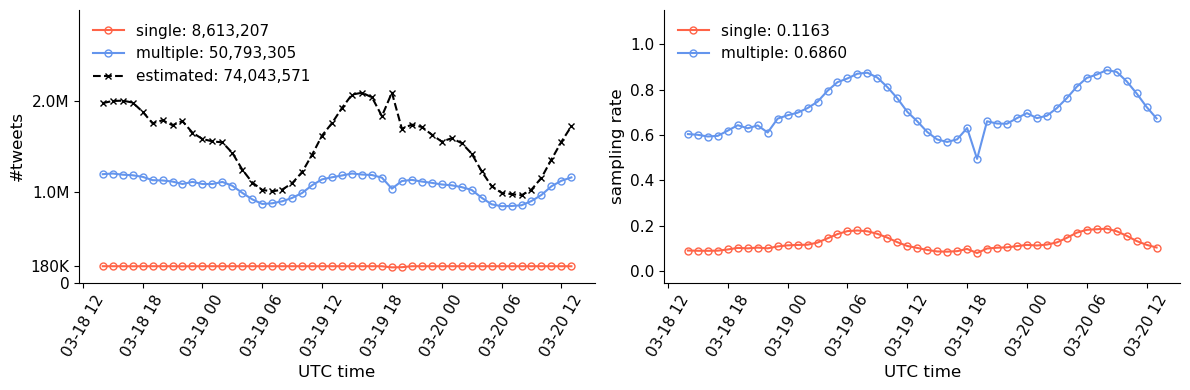
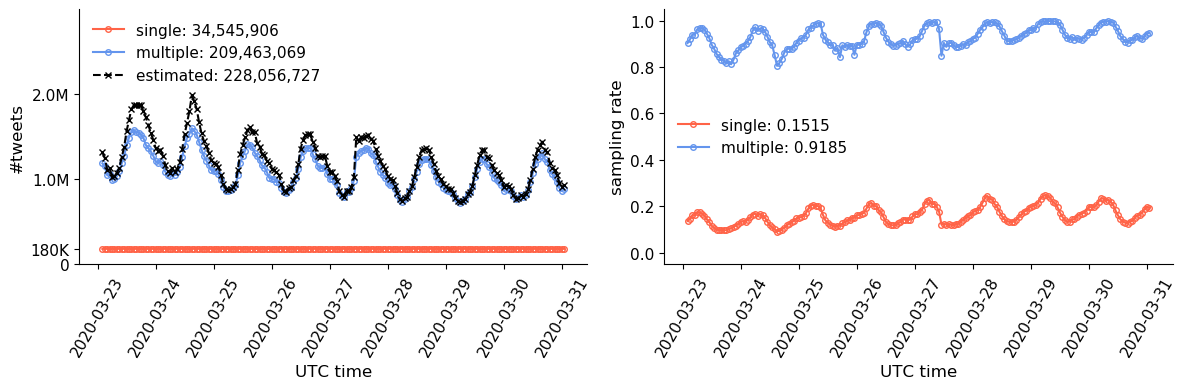
update readme

diff --git a/networks/plot_fig8_cluster_flow.py b/networks/plot_fig8_cluster_flow.py
@@ -43,6 +43,14 @@ def main():
             num_hashtags = num_entities - num_users
             complete_cluster_size_list.append((num_entities, num_users, num_hashtags))
     complete_sorted_by_size = sorted(enumerate(complete_cluster_size_list), key=lambda x: x[1][0], reverse=True)
+    complete_sorted_by_size_copy = []
+    complete_sorted_by_size_copy.append(complete_sorted_by_size[0])
+    complete_sorted_by_size_copy.append(complete_sorted_by_size[4])
+    complete_sorted_by_size_copy.append(complete_sorted_by_size[5])
+    complete_sorted_by_size_copy.append(complete_sorted_by_size[3])
+    complete_sorted_by_size_copy.append(complete_sorted_by_size[2])
+    complete_sorted_by_size_copy.append(complete_sorted_by_size[1])
+    complete_sorted_by_size = complete_sorted_by_size_copy
     print(complete_sorted_by_size)
 
     sample_cluster_size_list = []
@@ -54,6 +62,14 @@ def main():
             num_hashtags = num_entities - num_users
             sample_cluster_size_list.append((num_entities, num_users, num_hashtags))
     sample_sorted_by_size = sorted(enumerate(sample_cluster_size_list), key=lambda x: x[1][0], reverse=True)
+    sample_sorted_by_size_copy = []
+    sample_sorted_by_size_copy.append(sample_sorted_by_size[0])
+    sample_sorted_by_size_copy.append(sample_sorted_by_size[1])
+    sample_sorted_by_size_copy.append(sample_sorted_by_size[4])
+    sample_sorted_by_size_copy.append(sample_sorted_by_size[2])
+    sample_sorted_by_size_copy.append(sample_sorted_by_size[5])
+    sample_sorted_by_size_copy.append(sample_sorted_by_size[3])
+    sample_sorted_by_size = sample_sorted_by_size_copy
     print(sample_sorted_by_size)
 
     complete_clusters_list = []

diff --git a/README.md b/README.md
@@ -1,3 +1,4 @@
+
 # Code and Data for Twitter Sampling Effects Study
 
 We release the code and data for the following paper.
@@ -5,20 +6,20 @@ If you use the software, datasets, or refer to its results, please cite:
 > [Siqi Wu](https://avalanchesiqi.github.io/), [Marian-Andrei Rizoiu](http://www.rizoiu.eu/), and [Lexing Xie](http://users.cecs.anu.edu.au/~xlx/). Variation across Scales: Measurement Fidelity under Twitter Data Sampling. *AAAI International Conference on Weblogs and Social Media (ICWSM)*, 2020. \[[paper](https://avalanchesiqi.github.io/files/icwsm2020sampling.pdf)\|[data](https://dataverse.harvard.edu/dataset.xhtml?persistentId=doi:10.7910/DVN/GW9GDM)\]
 
 ## Crawling software package: [Twitter-intact-stream](https://github.com/avalanchesiqi/twitter-intact-stream)
-Twitter-intact-stream is a tool for collecting (nearly) complete Twitter filter stream, and first used to construct datasets in this paper.
+Twitter-intact-stream is a tool for collecting (nearly) complete Twitter filter stream.
+It splits the filtering predicates into multiple subsets, and tracks each set with a distinct streaming client.
 
-### Have you thought about collecting tweets related to the global pandemic COVID19?
-The posts over the Twittersphere are really boosted during the global lockdown.
-Typically, the public/free Twitter filtered streaming API allows for up to 4.32M per day, this is way below the volume of COVID19 related tweets.
+### Example: Collecting tweets related to the global pandemic COVID19
+The posts over the Twittersphere are really boosted during the global pandemic.
+Typically, the public/free Twitter filtered streaming API allows users to collect up to 4.32M per day, this is way below the volume of COVID19 related tweets.
 
-Checkout our collecting tool Twitter-intact-stream!
-We provide a pre-configured script to collect relevant tweets of COVID19.
-It can retrieve 25M tweets per day with an estimated 70% sampling rate.
-The following image plots temporal tweet counts and sampling rates for a dataset collected from 2020-03-18 to 2020-03-20.
-![Temporally tweet count and sampling rates](data/tweet_volume.png)
+In our collecting tool Twitter-intact-stream, we provide a pre-configured script to collect relevant tweets of COVID19.
+It can retrieve about 26M tweets per day with an estimated 91% sampling rate.
+The following image plots temporal tweet counts and sampling rates for a dataset collected from 2020-03-23 to 2020-03-31.
+![Temporally tweet counts and sampling rates](analysis/tweet_volume.png)
 
 ## Data
-We release 2 pairs of complete/sampled retweet cascades on topic Cyberbullying (sampling rate: 0.5272) and YouTube (sampling rate: 0.9153).
+We release 2 pairs of complete/sampled retweet cascades on Cyberbullying (sampling rate: 0.5272) and YouTube (sampling rate: 0.9153).
 The data is hosted on [Dataverse](https://dataverse.harvard.edu/dataset.xhtml?persistentId=doi:10.7910/DVN/GW9GDM).
 
 Each line is a cascades for a root tweet, in the format of "root_tweet_id-root_user_followers:retweet_id1-retweet_user_followers1,retweet_id2-retweet_user_followers2,...".
@@ -49,3 +50,4 @@ This script can generate all the data files to run the experiments under the [da
 
 For network analysis, another quickstart bash script is provided for generating all the data files:
 [run_network_analysis.sh](/networks/run_network_analysis.sh)
+
